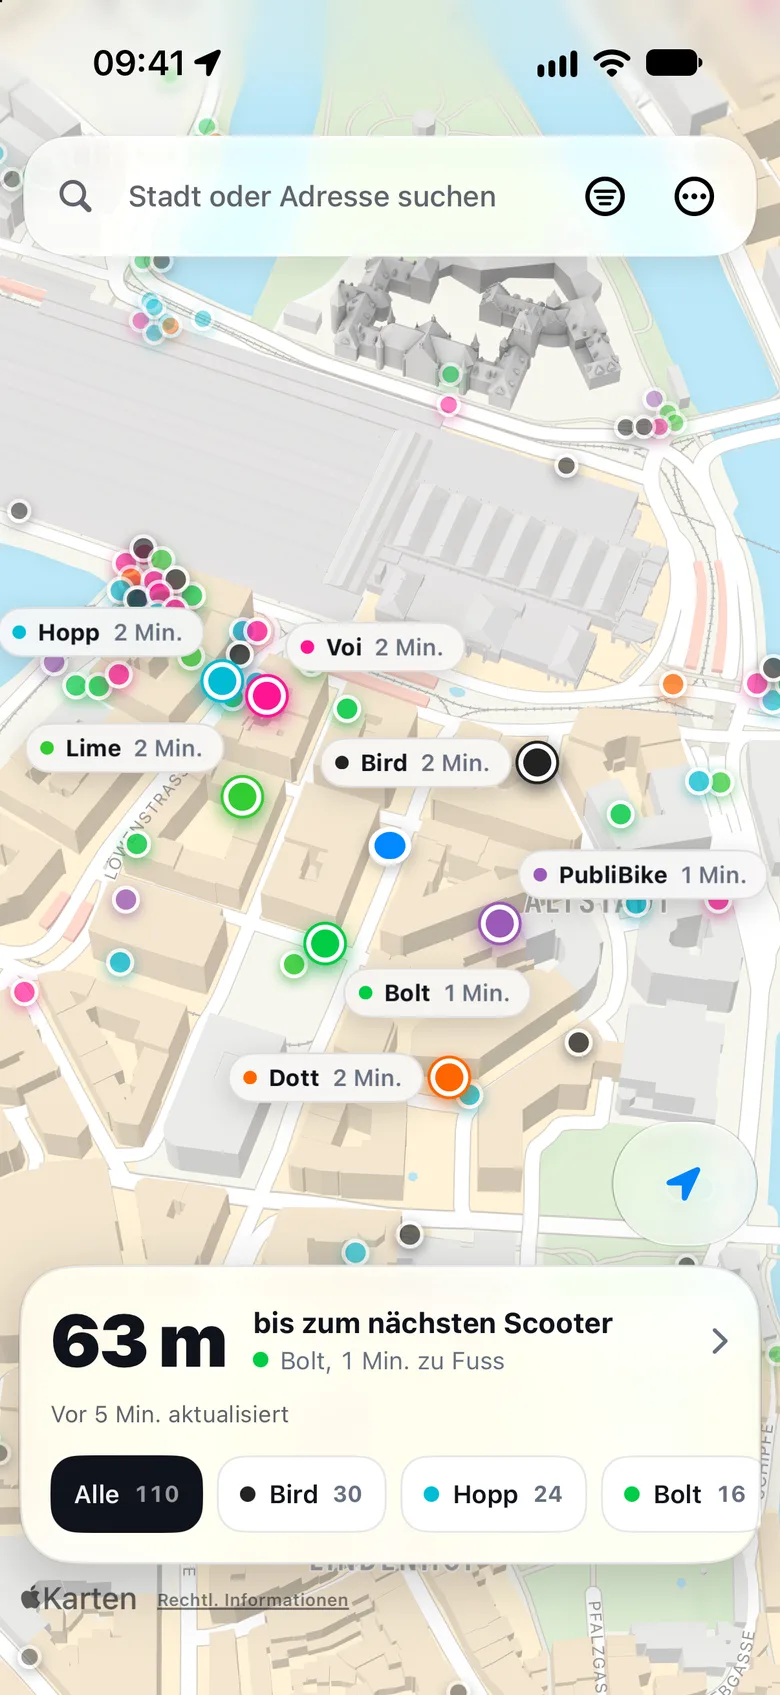
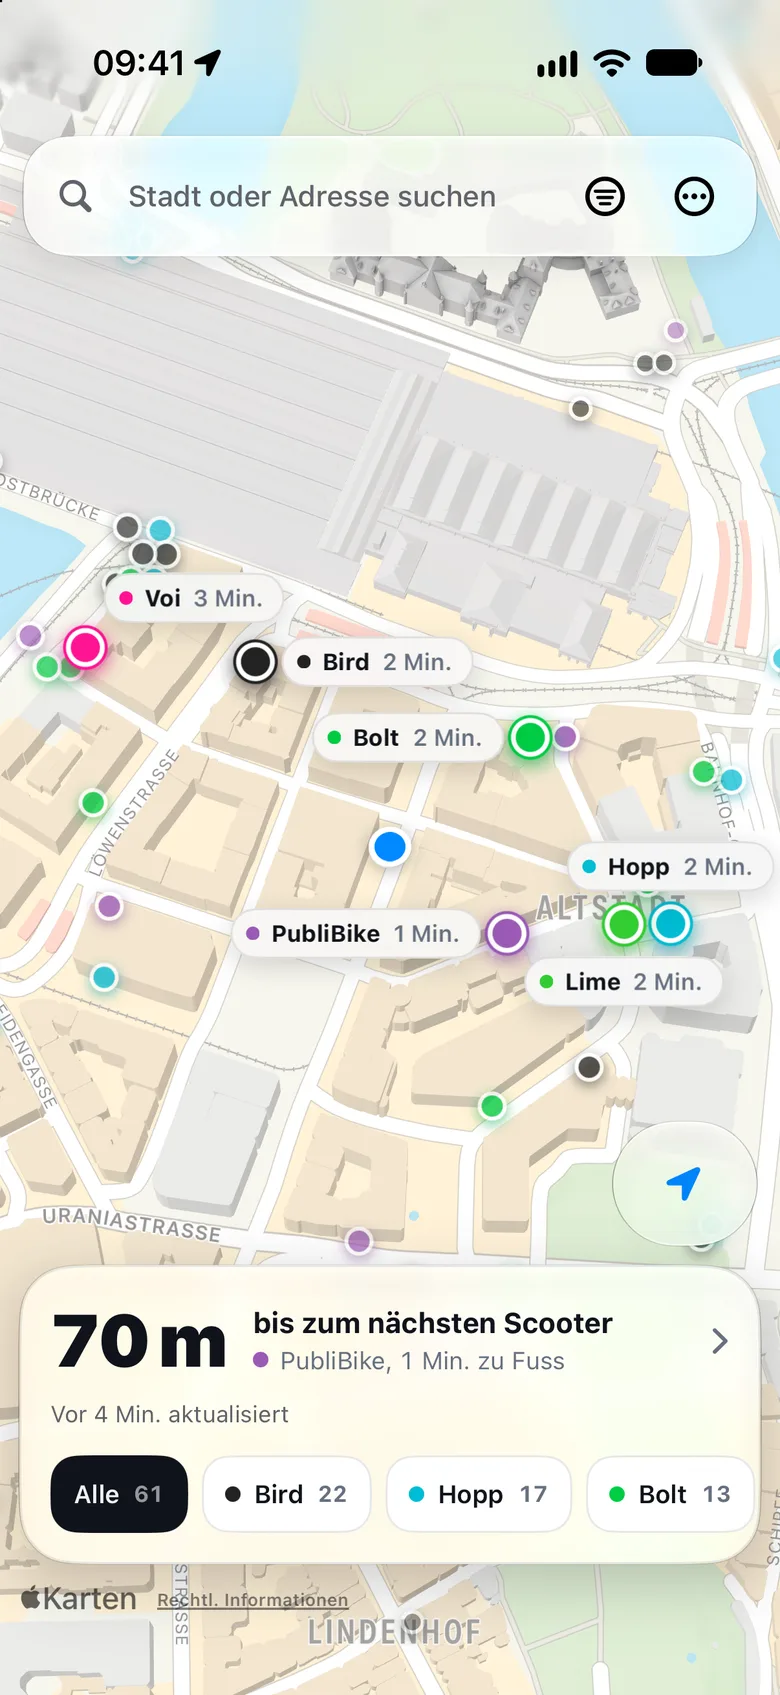
Take the landing page's pictures in Dutch and Norwegian too
All six languages are captured in one run, so they show the same 61
scooters by Zürich main station, PubliBike nearest at 70 m. The tiles of
the share pictures shrink to fit the twelve providers on one row.

diff --git a/src/lib/landingSnapshot.ts b/src/lib/landingSnapshot.ts
@@ -22,7 +22,7 @@ export interface LandingNearest {
   shows: readonly LandingNearestFact[];
 }
 
-export const LANDING_SNAPSHOT_DATE = '2026-10-11';
+export const LANDING_SNAPSHOT_DATE = '2026-10-12';
 
 const CHF = (unlock: number, minute: number): RidePricing => ({
   currency: 'CHF',
@@ -32,15 +32,15 @@ const CHF = (unlock: number, minute: number): RidePricing => ({
 
 /** Nearest first. The first one is the scooter the page then follows. */
 export const LANDING_NEAREST: readonly LandingNearest[] = [
-  { provider: 'bolt', name: 'Bolt', distanceM: 63, battery: 20, rangeM: 8_400, pricing: CHF(100, 42), shows: ['walk', 'range'] },
-  { provider: 'publibike', name: 'PubliBike', distanceM: 70, battery: null, rangeM: null, pricing: null, shows: ['bike'] },
-  { provider: 'lime', name: 'Lime', distanceM: 81, battery: null, rangeM: 23_303, pricing: null, shows: ['range'] },
-  { provider: 'bird', name: 'Bird', distanceM: 91, battery: 56, rangeM: 18_914, pricing: null, shows: ['battery', 'range'] },
-  { provider: 'voi', name: 'Voi', distanceM: 114, battery: null, rangeM: 43_200, pricing: CHF(100, 42), shows: ['price'] },
-  { provider: 'hopp', name: 'Hopp', distanceM: 126, battery: 71, rangeM: 26_000, pricing: CHF(100, 40), shows: ['battery', 'price'] },
-  { provider: 'dott', name: 'Dott', distanceM: 131, battery: 94, rangeM: 59_096, pricing: null, shows: ['battery', 'range'] },
+  { provider: 'publibike', name: 'PubliBike', distanceM: 70, battery: null, rangeM: null, pricing: null, shows: ['walk', 'bike'] },
+  { provider: 'bolt', name: 'Bolt', distanceM: 92, battery: 92, rangeM: 58_800, pricing: CHF(100, 42), shows: ['battery', 'range'] },
+  { provider: 'bird', name: 'Bird', distanceM: 116, battery: 68, rangeM: 23_160, pricing: null, shows: ['battery', 'range'] },
+  { provider: 'lime', name: 'Lime', distanceM: 127, battery: null, rangeM: 3_138, pricing: null, shows: ['range'] },
+  { provider: 'hopp', name: 'Hopp', distanceM: 128, battery: 34, rangeM: 11_200, pricing: CHF(100, 40), shows: ['battery', 'price'] },
+  { provider: 'voi', name: 'Voi', distanceM: 181, battery: null, rangeM: 67_200, pricing: CHF(100, 42), shows: ['price'] },
+  { provider: 'dott', name: 'Dott', distanceM: 504, battery: 44, rangeM: 25_896, pricing: null, shows: ['battery', 'range'] },
 ];
 
 // The scooters in view on the dark map (public/landing/*-dark.webp), which its
 // "All" chip counts in every language: the headline repeats the number beside it.
-export const LANDING_SCOOTERS_NEARBY = 110;
+export const LANDING_SCOOTERS_NEARBY = 61;
